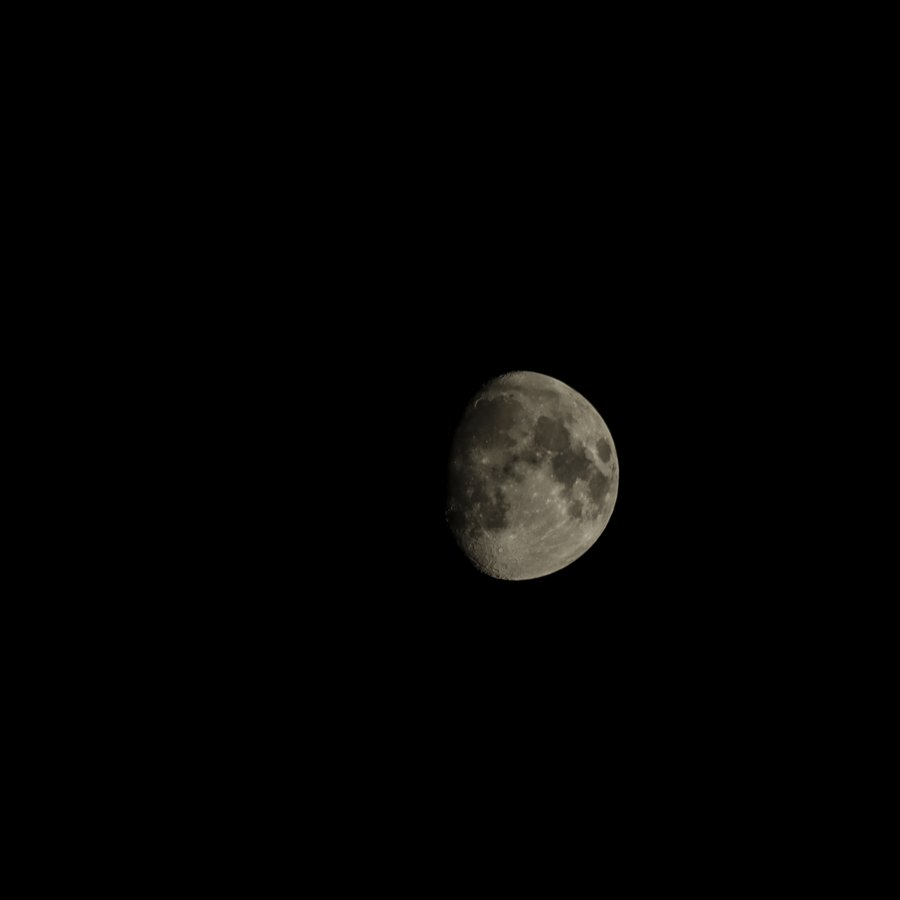
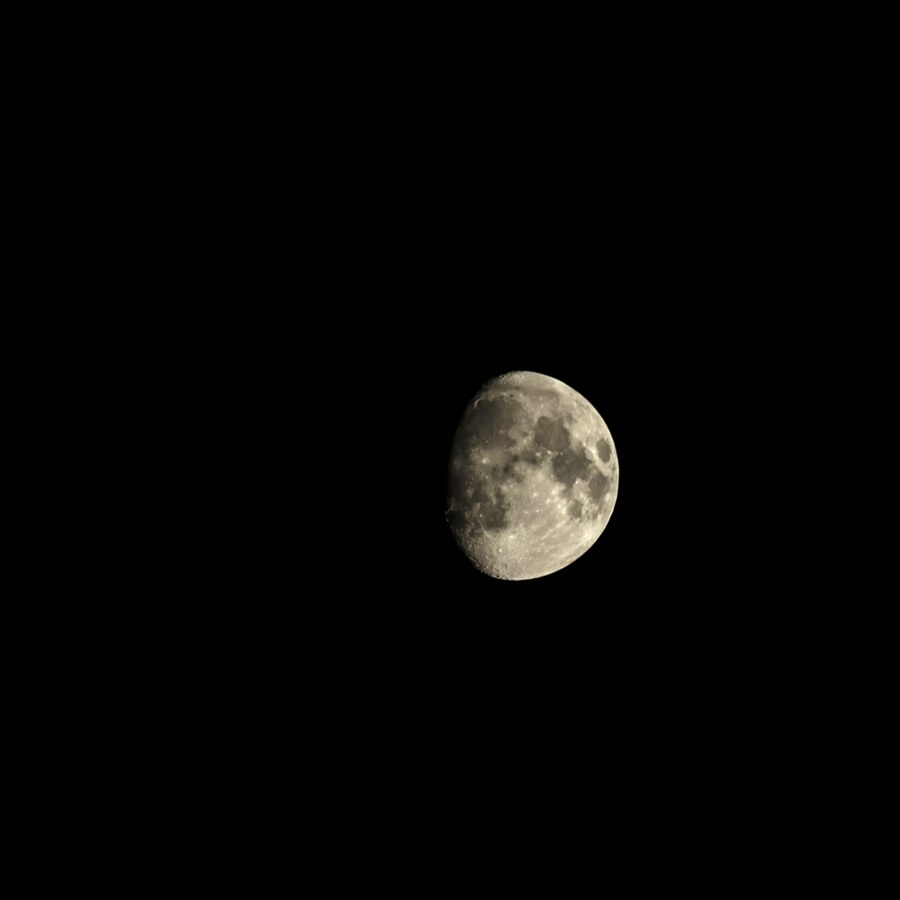
Add files via upload

Changed region(s): [[0.4978, 0.4044, 0.6844, 0.6533]]

diff --git a/style.css b/style.css
@@ -89,8 +89,8 @@ table.tarifs tr:hover td{background:rgba(230,184,102,.06)}
 
 /* --- Lune en fond, accueil uniquement --- */
 body.accueil{position:relative}
-body.accueil::before{content:"";position:fixed;inset:0;background:url('lune-fond.jpg') no-repeat;background-position:top right;background-size:min(80vw,760px);opacity:.32;mix-blend-mode:screen;pointer-events:none;z-index:0}
-body.accueil::after{content:"";position:fixed;inset:0;background:url('soleil-fond.jpg') no-repeat;background-position:bottom left;background-size:min(80vw,760px);opacity:.34;mix-blend-mode:screen;pointer-events:none;z-index:0}
+body.accueil::before{content:"";position:fixed;inset:0;background:url('lune-fond.jpg') no-repeat;background-position:top right;background-size:min(95vw,900px);opacity:.55;mix-blend-mode:screen;pointer-events:none;z-index:0}
+body.accueil::after{content:"";position:fixed;inset:0;background:url('soleil-fond.jpg') no-repeat;background-position:bottom left;background-size:min(95vw,900px);opacity:.55;mix-blend-mode:screen;pointer-events:none;z-index:0}
 .cadre{position:relative;z-index:1}
 
 /* --- Page Portfolio --- */
